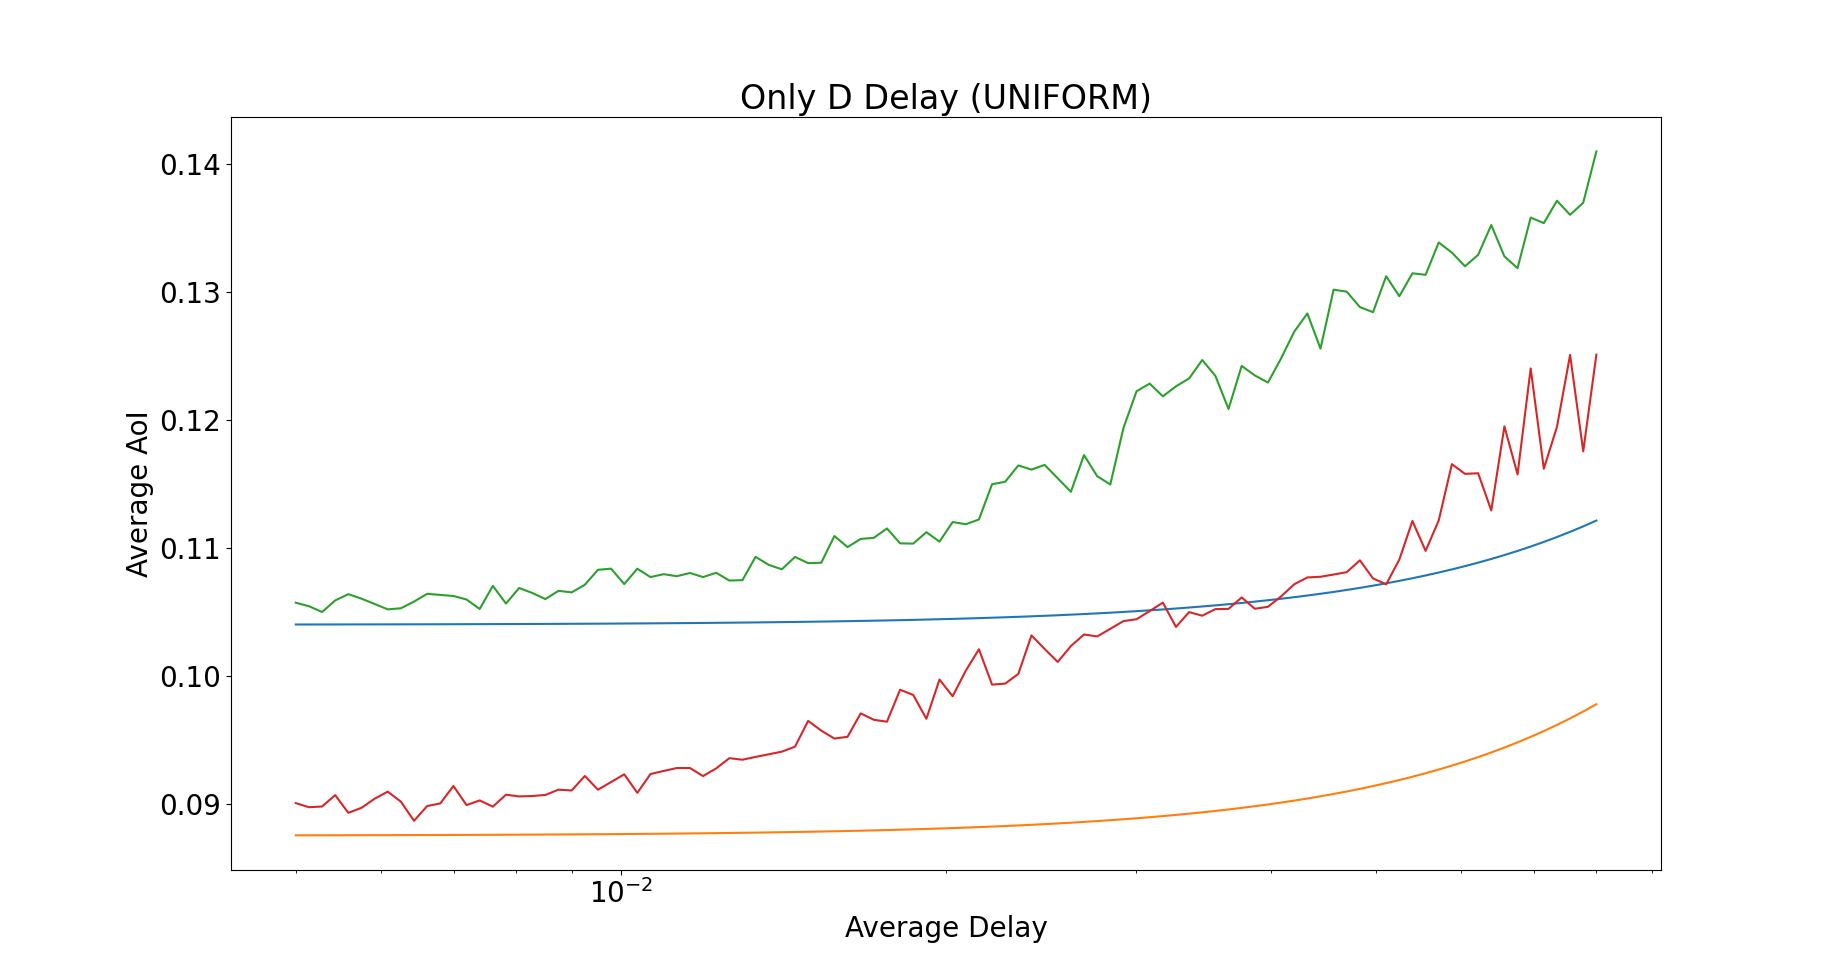
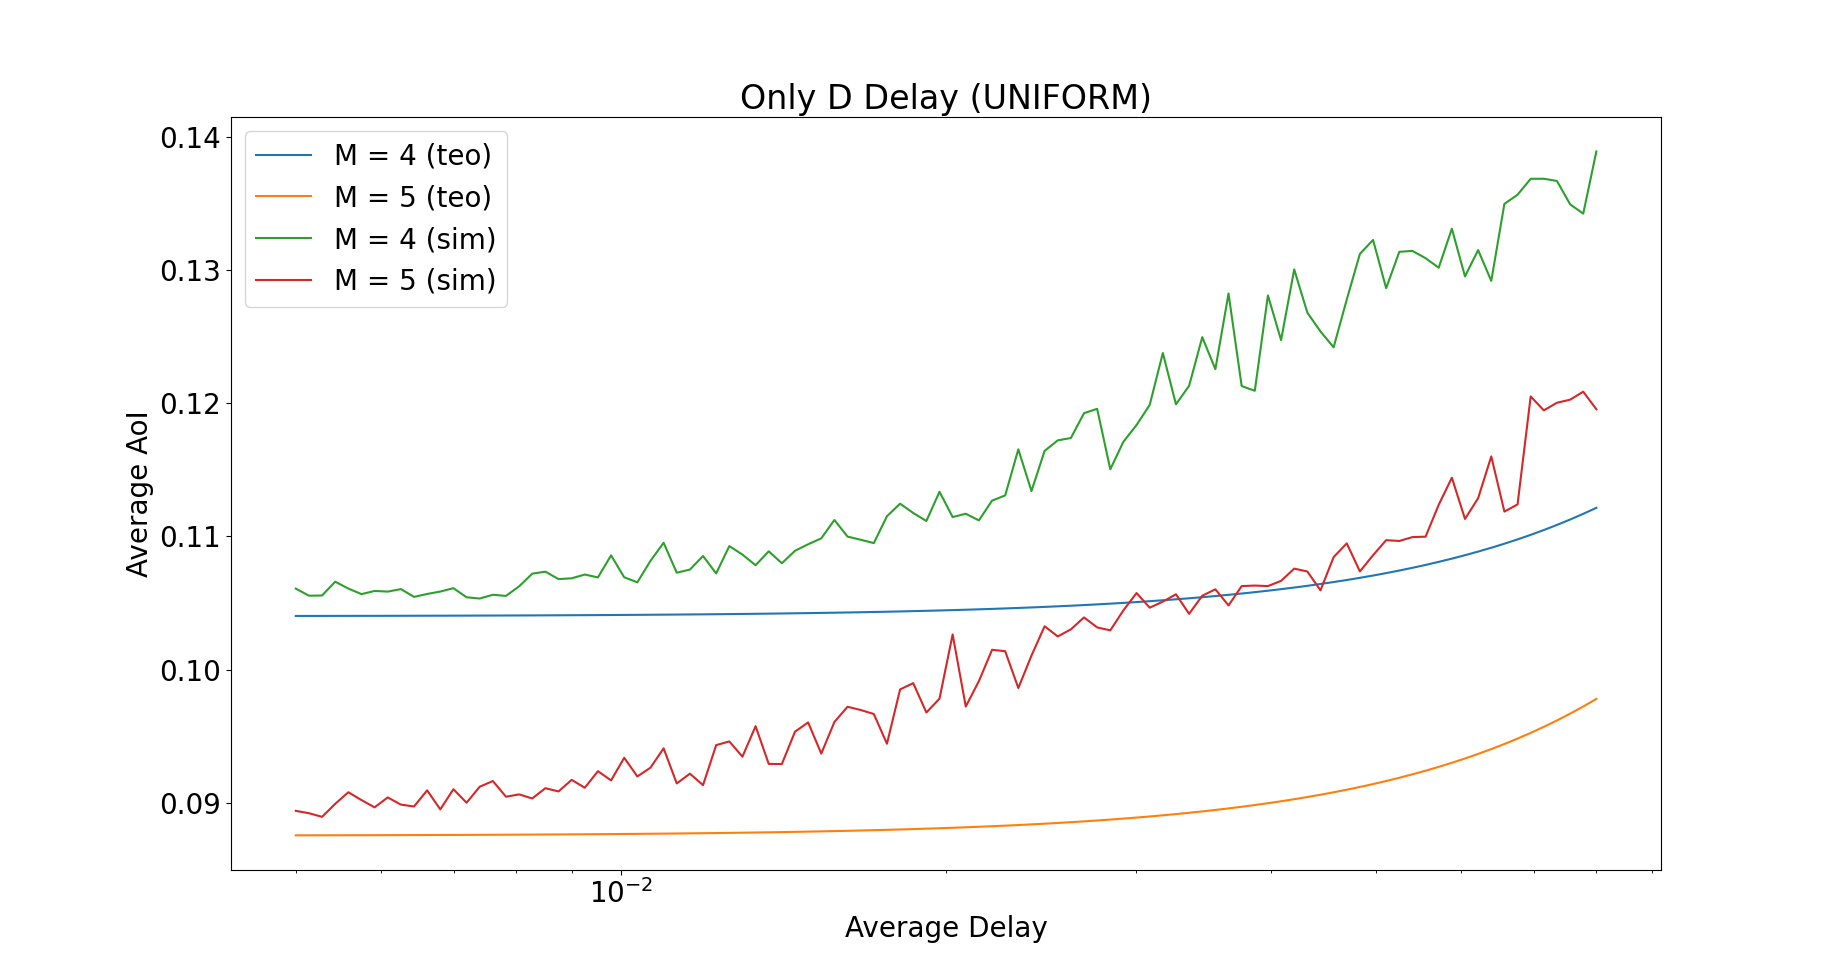
Work on globecom

diff --git a/AoI_Delay.py b/AoI_Delay.py
@@ -173,6 +173,10 @@ def compute_aoi_multiple_value_simulation(config):
                 current_interval = 0
                 tentativi = 0
                 while current_interval < 9000:
+                    # If the last interval of the simulation has value 1000000 it means that all transmissions have been made
+                    # If it has a small value means that some transmission remain.
+                    # Thi while cylce iterate until all transmission are made
+
                     aoi, current_interval = simulation(config['L'], N_tx, d, config['d_type'], t, config['t_type'])
                     if integration_type == 0: aoi_average = np.mean(aoi)
                     elif integration_type == 1: aoi_average = np.trapz(aoi, np.linspace(0, 1, len(aoi)))
@@ -206,7 +210,8 @@ def simulation(L : int, N_tx : int, average_d : float, d_type : str, average_t :
     current_interval = transmission_interval[idx_current_tx] + d_delay_list[idx_current_tx] + t_delay_list[idx_current_tx]
     
     simulation_step = 1 / L
-
+    
+    # PRINT DI DEBUG
     # print("L = ", L)
     # print("Simulation step = ", simulation_step)
     # print("M = ", N_tx)
@@ -223,14 +228,10 @@ def simulation(L : int, N_tx : int, average_d : float, d_type : str, average_t :
         current_aoi += simulation_step
         current_interval -= simulation_step
 
-        if current_interval < 0: # i.e. the transmission has taken place
+        if current_interval <= 0: # i.e. the transmission has taken place
             # This value is used to correct the results given by the discrete nature of the simulation
             adjustment_value = np.abs(current_interval)
             current_aoi = t_delay_list[idx_current_tx] + adjustment_value
-            
-            # Sample new values for the activation and transmission delay
-            # d_delay = sample_distribution(average_d, d_type)
-            # t_delay = sample_distribution(average_t, t_type)
             
             # Advance the idx of the current tx
             idx_current_tx += 1
@@ -238,8 +239,8 @@ def simulation(L : int, N_tx : int, average_d : float, d_type : str, average_t :
             # Compute the new interval
             if idx_current_tx <= len(transmission_interval) - 1: 
                 current_interval = transmission_interval[idx_current_tx] + d_delay_list[idx_current_tx] + t_delay_list[idx_current_tx]
-            else: 
-                current_interval = int(10000)
+            else: # IF the transmission are ended sets the next interval to a value too large to finish 
+                current_interval = int(1000000)
 
         aoi_history[i] = current_aoi
     
@@ -304,6 +305,8 @@ def main():
     results_sim_ee = average_multiple_simulation(n_simulation, config)
     print("Simulation time (ee): ", time.time() - start)
 
+    plt_aoi.plot_delay_theory_vs_sim_single_delay(results_theory_uu, results_sim_uu, 'uniform', 'D', config)
+    plt_aoi.plot_delay_theory_vs_sim_single_delay(results_theory_ee, results_sim_ee, 'exponential', 'D', config)
 
 if __name__ == "__main__":
     main()

diff --git a/plot_aoi.py b/plot_aoi.py
@@ -564,7 +564,7 @@ def compute_idx_both_delays(idx_both_delays, d_values, t_values, max_delay, idx_
 
     return idx_both_delays == 1, np.asarray(delay_values)
 
-def plot_delay_theory_vs_sim_single_delat(results_theory, results_sim, delay_distribution, delay_type, config):
+def plot_delay_theory_vs_sim_single_delay(results_theory, results_sim, delay_distribution, delay_type, config):
     x = np.geomspace(0.005, config['max_d_delay'], config['d_points'])
     for i in range(len(config['M_list'])):
         M = config['M_list'][i]
